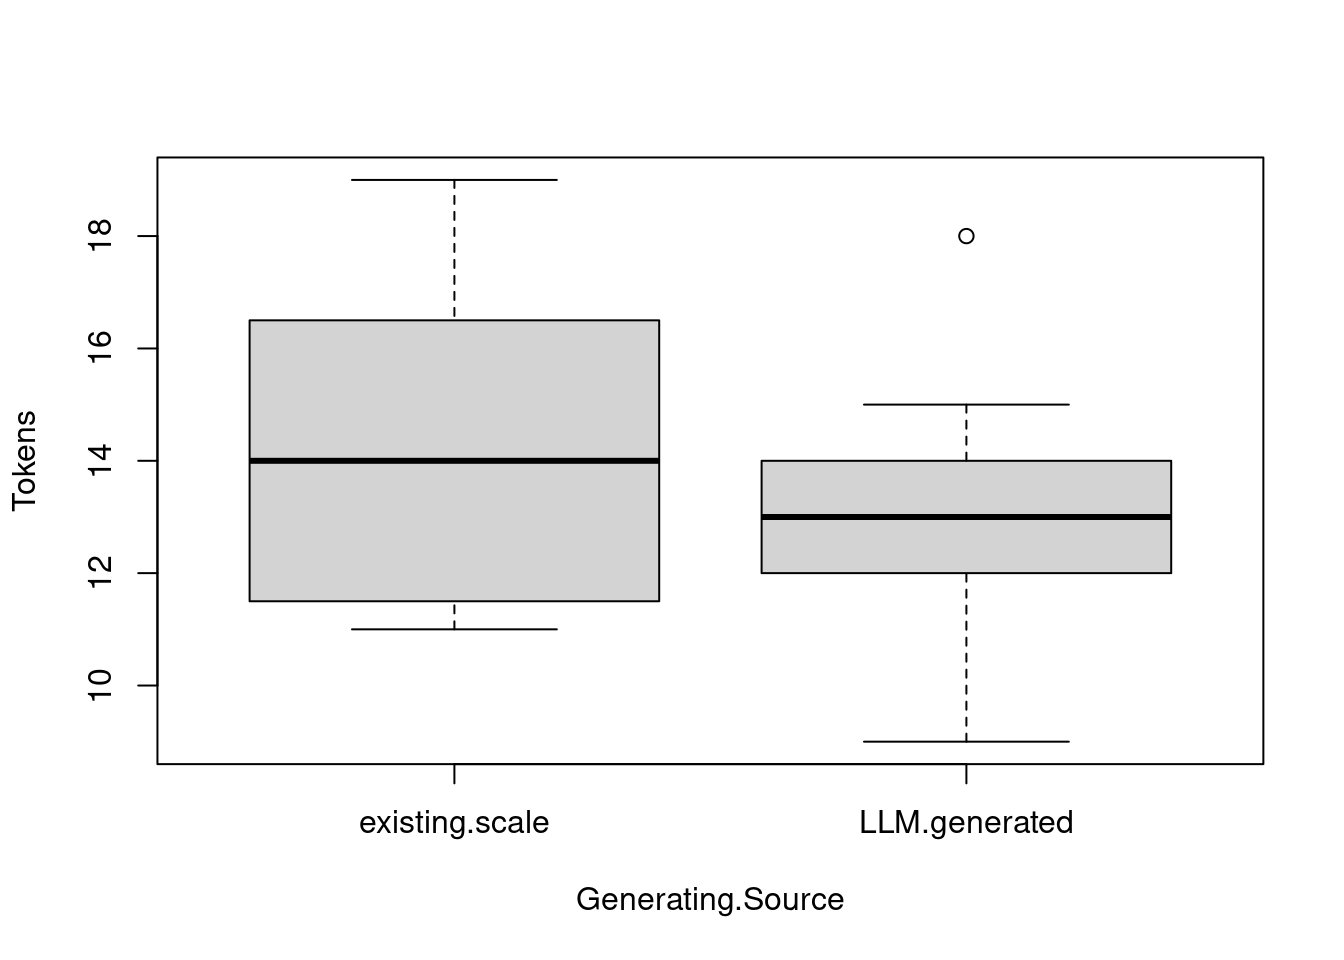
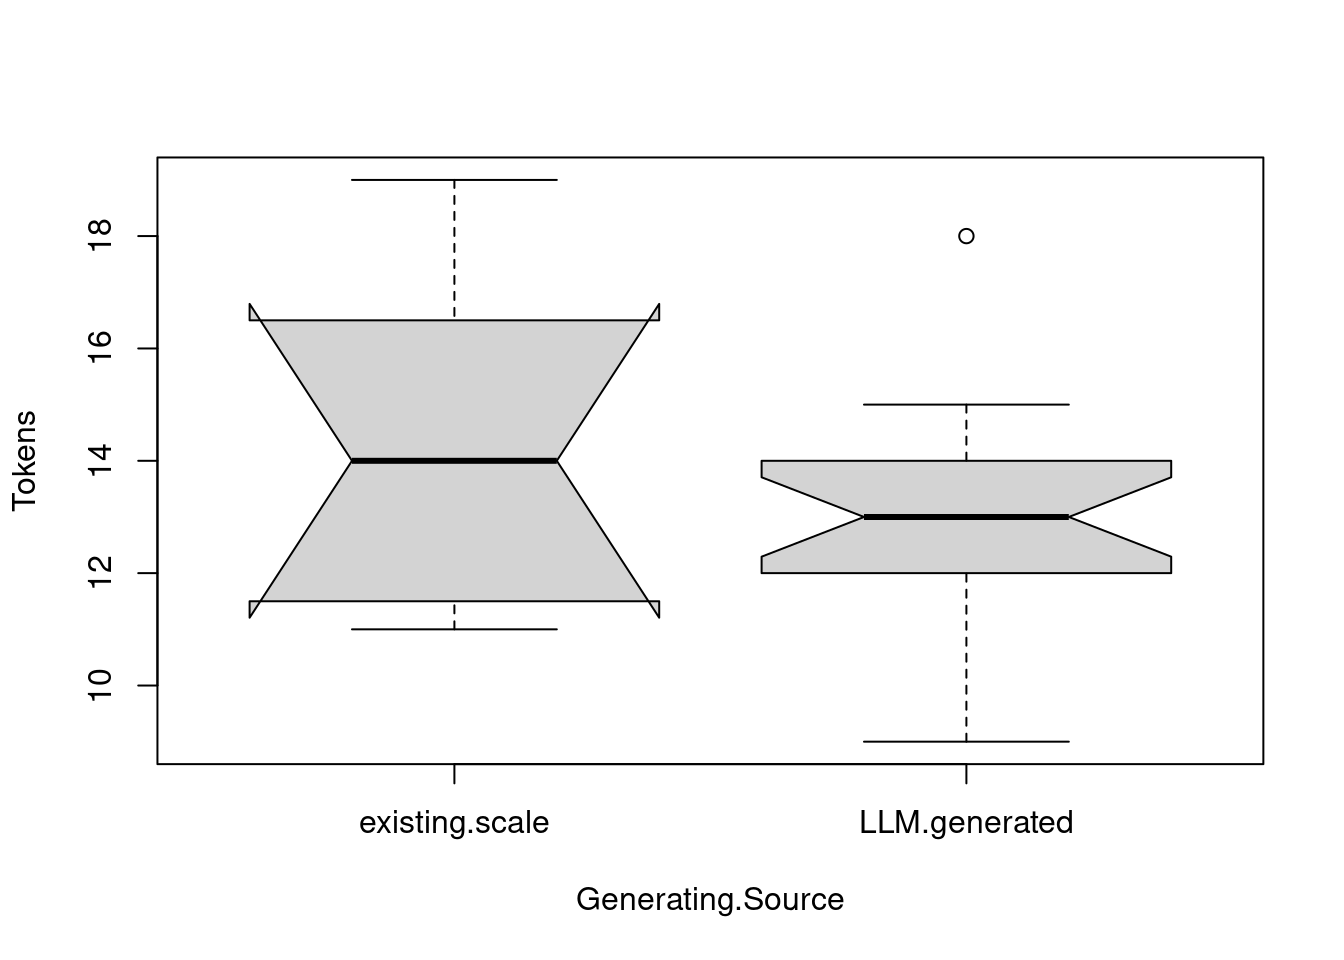
hoy

diff --git a/_book/second-case-anthropics-claude-generated-items.html b/_book/second-case-anthropics-claude-generated-items.html
@@ -22,7 +22,7 @@
 
 
 
-<meta name="date" content="2024-07-02" />
+<meta name="date" content="2024-07-04" />
 
   <meta name="viewport" content="width=device-width, initial-scale=1" />
   <meta name="apple-mobile-web-app-capable" content="yes" />
@@ -227,7 +227,7 @@ div.csl-indent {
 ##  text28    13     14         1 AI.anxiety.in.learning     LLM.generated</code></pre>
 <div class="sourceCode" id="cb4"><pre class="sourceCode r"><code class="sourceCode r"><span id="cb4-1"><a href="second-case-anthropics-claude-generated-items.html#cb4-1" tabindex="-1"></a>ItemsData <span class="ot">&lt;-</span> <span class="fu">data.frame</span>(<span class="fu">summary</span>(ClaudeItems, <span class="at">n =</span> <span class="fu">length</span>(ClaudeItems)))</span></code></pre></div>
 <p>Now, let’s check the difference between the items generated by the LLM and those generated by humans in terms of the length of their statements as captured by the total number of words or “Tokens”.</p>
-<div class="sourceCode" id="cb5"><pre class="sourceCode r"><code class="sourceCode r"><span id="cb5-1"><a href="second-case-anthropics-claude-generated-items.html#cb5-1" tabindex="-1"></a><span class="fu">boxplot</span>(<span class="at">data =</span> ItemsData, Tokens <span class="sc">~</span> Generating.Source)</span></code></pre></div>
+<div class="sourceCode" id="cb5"><pre class="sourceCode r"><code class="sourceCode r"><span id="cb5-1"><a href="second-case-anthropics-claude-generated-items.html#cb5-1" tabindex="-1"></a><span class="fu">boxplot</span>(<span class="at">data =</span> ItemsData, Tokens <span class="sc">~</span> Generating.Source, <span class="at">notch =</span> T)</span></code></pre></div>
 <p><img src="_main_files/figure-html/unnamed-chunk-3-1.png" width="672" /></p>
 <p>Now, let’s test other things</p>
 <div class="sourceCode" id="cb6"><pre class="sourceCode r"><code class="sourceCode r"><span id="cb6-1"><a href="second-case-anthropics-claude-generated-items.html#cb6-1" tabindex="-1"></a>Items <span class="ot">&lt;-</span> <span class="fu">tokens</span>(ClaudeItems, </span>
@@ -247,9 +247,9 @@ div.csl-indent {
 <div class="sourceCode" id="cb7"><pre class="sourceCode r"><code class="sourceCode r"><span id="cb7-1"><a href="second-case-anthropics-claude-generated-items.html#cb7-1" tabindex="-1"></a><span class="fu">library</span>(hopkins)</span>
 <span id="cb7-2"><a href="second-case-anthropics-claude-generated-items.html#cb7-2" tabindex="-1"></a>Hopkins.Items <span class="ot">&lt;-</span> <span class="fu">hopkins</span>(<span class="fu">as.matrix</span>(ExistingItems))</span>
 <span id="cb7-3"><a href="second-case-anthropics-claude-generated-items.html#cb7-3" tabindex="-1"></a>Hopkins.Items</span></code></pre></div>
-<pre><code>## [1] 0.999974</code></pre>
+<pre><code>## [1] 0.9537947</code></pre>
 <div class="sourceCode" id="cb9"><pre class="sourceCode r"><code class="sourceCode r"><span id="cb9-1"><a href="second-case-anthropics-claude-generated-items.html#cb9-1" tabindex="-1"></a><span class="fu">hopkins.pval</span>(Hopkins.Items, <span class="at">n =</span> <span class="dv">8</span>)</span></code></pre></div>
-<pre><code>## [1] 0</code></pre>
+<pre><code>## [1] 1.994472e-07</code></pre>
 <p>The Hopkins statistics suggests that these eight items are indeed measuring at least two dimensions. If this is correct we should be able to corroborate this as follows:</p>
 <div class="sourceCode" id="cb11"><pre class="sourceCode r"><code class="sourceCode r"><span id="cb11-1"><a href="second-case-anthropics-claude-generated-items.html#cb11-1" tabindex="-1"></a><span class="fu">library</span>(<span class="st">&quot;quanteda.textmodels&quot;</span>)</span>
 <span id="cb11-2"><a href="second-case-anthropics-claude-generated-items.html#cb11-2" tabindex="-1"></a>tmod <span class="ot">&lt;-</span> <span class="fu">textmodel_ca</span>(ExistingItems)</span>

diff --git a/_book/first-case-googles-gemini-generated-items.html b/_book/first-case-googles-gemini-generated-items.html
@@ -22,7 +22,7 @@
 
 
 
-<meta name="date" content="2024-07-02" />
+<meta name="date" content="2024-07-04" />
 
   <meta name="viewport" content="width=device-width, initial-scale=1" />
   <meta name="apple-mobile-web-app-capable" content="yes" />
@@ -225,9 +225,9 @@ div.csl-indent {
 <div class="sourceCode" id="cb5"><pre class="sourceCode r"><code class="sourceCode r"><span id="cb5-1"><a href="first-case-googles-gemini-generated-items.html#cb5-1" tabindex="-1"></a><span class="fu">library</span>(hopkins)</span>
 <span id="cb5-2"><a href="first-case-googles-gemini-generated-items.html#cb5-2" tabindex="-1"></a>Hopkins <span class="ot">&lt;-</span> <span class="fu">hopkins</span>(ItemsData[<span class="fu">c</span>(<span class="dv">2</span><span class="sc">:</span><span class="dv">4</span>)])</span>
 <span id="cb5-3"><a href="first-case-googles-gemini-generated-items.html#cb5-3" tabindex="-1"></a>Hopkins</span></code></pre></div>
-<pre><code>## [1] 0.8232379</code></pre>
+<pre><code>## [1] 0.9844664</code></pre>
 <div class="sourceCode" id="cb7"><pre class="sourceCode r"><code class="sourceCode r"><span id="cb7-1"><a href="first-case-googles-gemini-generated-items.html#cb7-1" tabindex="-1"></a><span class="fu">hopkins.pval</span>(Hopkins, <span class="at">n =</span> <span class="dv">20</span>)</span></code></pre></div>
-<pre><code>## [1] 3.747335e-06</code></pre>
+<pre><code>## [1] 0</code></pre>
 <p>The Hopkins statistic should be below the threshold of 0.5 to consider that the matrix is clusterable. Thus, the generated items, treated as a corpus can not be regarded as a linguistic corpus that can be split into several dimensions.</p>
 <div class="sourceCode" id="cb9"><pre class="sourceCode r"><code class="sourceCode r"><span id="cb9-1"><a href="first-case-googles-gemini-generated-items.html#cb9-1" tabindex="-1"></a>Hopkins.Items <span class="ot">&lt;-</span> <span class="fu">hopkins</span>(<span class="fu">as.matrix</span>(GEMINIItems))</span>
 <span id="cb9-2"><a href="first-case-googles-gemini-generated-items.html#cb9-2" tabindex="-1"></a>Hopkins.Items</span></code></pre></div>

diff --git a/_book/index.html b/_book/index.html
@@ -22,7 +22,7 @@
 
 
 
-<meta name="date" content="2024-07-02" />
+<meta name="date" content="2024-07-04" />
 
   <meta name="viewport" content="width=device-width, initial-scale=1" />
   <meta name="apple-mobile-web-app-capable" content="yes" />
@@ -123,7 +123,7 @@ div.csl-indent {
 Critical Centrality Institute<br>
 <a class="author_email" href="mailto:#"><a href="mailto:jcc@criticalcentrality.com" class="email">jcc@criticalcentrality.com</a></a>
 </address>
-<p class="date"><em>2024-07-02</em></p>
+<p class="date"><em>2024-07-04</em></p>
 </div>
 <div id="motivation" class="section level1 unnumbered hasAnchor">
 <h1><span style="color: #7c0cc7;">Motivation</span><a href="index.html#motivation" class="anchor-section" aria-label="Anchor link to header"></a></h1>

diff --git a/_book/404.html b/_book/404.html
@@ -22,7 +22,7 @@
 
 
 
-<meta name="date" content="2024-07-02" />
+<meta name="date" content="2024-07-04" />
 
   <meta name="viewport" content="width=device-width, initial-scale=1" />
   <meta name="apple-mobile-web-app-capable" content="yes" />

diff --git a/_book/applying-information-theory.html b/_book/applying-information-theory.html
@@ -22,7 +22,7 @@
 
 
 
-<meta name="date" content="2024-07-02" />
+<meta name="date" content="2024-07-04" />
 
   <meta name="viewport" content="width=device-width, initial-scale=1" />
   <meta name="apple-mobile-web-app-capable" content="yes" />
